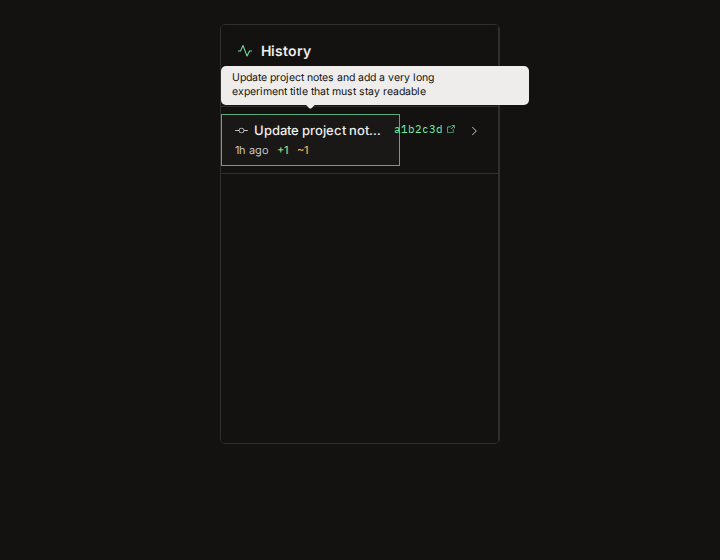
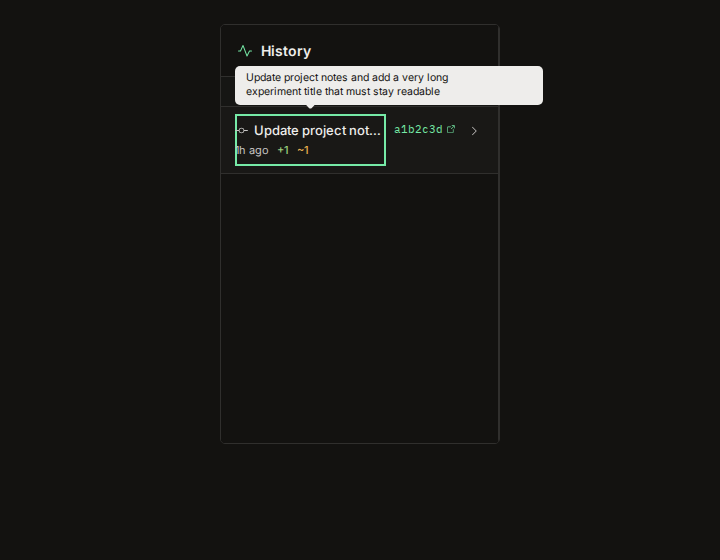
fix: align History commit titles with the review hold
The inspector name now starts with the visible hash and subject.
Empty subjects skip the tooltip. History rows expand from the title,
the chevron is not a second tab stop, and the focus ring uses the
state focus token. Earth light review shots sit beside the Graphite ones.

QA: hover, focus, and Escape on PulseView and GitHistoryPanel.
Tests: pnpm test — 7644 passed, 1 skipped. pnpm lint and pnpm typecheck passed.
Localization: none — English only (C18).
PostHog: no event needed because this is a tooltip on existing rows.
ADRs: none.

Changed region(s): [[0.3056, 0.1214, 0.6417, 0.3036], [0.7333, 0.1214, 0.7639, 0.2125]]

diff --git a/src/components/PulseView.test.tsx b/src/components/PulseView.test.tsx
@@ -1,8 +1,10 @@
 import { describe, it, expect, vi, beforeEach } from 'vitest'
-import { render, screen, fireEvent, waitFor } from '@testing-library/react'
+import { render as rtlRender, screen, fireEvent, waitFor } from '@testing-library/react'
 import { PulseView } from './PulseView'
 import { TooltipProvider } from './ui/tooltip'
 import type { PulseCommit } from '../types'
+
+const render = (ui: Parameters<typeof rtlRender>[0]) => rtlRender(ui, { wrapper: TooltipProvider })
 
 const openExternalUrl = vi.fn()
 const mockCommits: PulseCommit[] = [
@@ -159,12 +161,9 @@ describe('PulseView', () => {
 
     render(<PulseView vaultPath="/test/vault" />)
 
-    // Files are collapsed by default — expand all commit cards first
-    await waitFor(() => {
-      expect(screen.getAllByLabelText('Expand files').length).toBeGreaterThan(0)
-    })
-    screen.getAllByLabelText('Expand files').forEach((btn) => {
-      fireEvent.click(btn)
+    const commitRows = await screen.findAllByRole('button', { expanded: false })
+    commitRows.forEach((row) => {
+      fireEvent.click(row)
     })
 
     await waitFor(() => {
@@ -193,9 +192,7 @@ describe('PulseView', () => {
 
     render(<PulseView vaultPath="/test/vault" onOpenNote={onOpenNote} />)
 
-    await waitFor(() => {
-      expect(screen.getAllByLabelText('Expand files').length).toBeGreaterThan(0)
-    })
+    await screen.findByRole('button', { name: /Update project notes/i })
     rowLabels.forEach((rowLabel) => {
       fireEvent.click(screen.getByText(rowLabel))
     })
@@ -254,10 +251,7 @@ describe('PulseView', () => {
 
     render(<PulseView vaultPath="/test/vault" />)
 
-    // Files are collapsed by default
-    await waitFor(() => {
-      expect(screen.getAllByLabelText('Expand files').length).toBeGreaterThan(0)
-    })
+    await screen.findByRole('button', { name: /Update project notes/i, expanded: false })
     expect(screen.queryByText('my project')).not.toBeInTheDocument()
 
     fireEvent.click(screen.getByText('Update project notes'))
@@ -277,18 +271,26 @@ describe('PulseView', () => {
     render(<PulseView vaultPath="/test/vault" />)
 
     const commitRow = await screen.findByRole('button', { name: /Update project notes/i })
+    const surface = commitRow.parentElement?.parentElement
     const hasExpandedBackground = (className: string) => /(^|\s)bg-accent\/40(\s|$)/.test(className)
+    const hashLink = screen.getByRole('link', { name: /abc123d/ })
 
-    expect(commitRow.className).toContain('-mx-4')
-    expect(commitRow.className).toContain('px-4')
-    expect(commitRow.className).toContain('rounded-none')
-    expect(commitRow.className).toContain('hover:bg-accent/40')
-    expect(commitRow.className).toContain('focus-visible:bg-accent/40')
-    expect(hasExpandedBackground(commitRow.className)).toBe(false)
+    expect(surface).not.toBeNull()
+    expect(surface?.className).toContain('hover:bg-accent/40')
+    expect(surface?.className).toContain('focus-within:bg-accent/40')
+    expect(hasExpandedBackground(surface?.className ?? '')).toBe(false)
+    expect(commitRow.className).toContain('focus-visible:ring-2')
+    expect(commitRow.className).toContain('focus-visible:ring-[var(--state-focus-ring)]')
+    expect(commitRow).toHaveAttribute('aria-expanded', 'false')
+    expect(surface).toContainElement(hashLink)
+    expect(commitRow).not.toContainElement(hashLink)
+    const chevron = surface?.querySelector('button[aria-hidden="true"]')
+    expect(chevron).toHaveAttribute('tabindex', '-1')
 
     fireEvent.click(commitRow)
 
-    expect(hasExpandedBackground(commitRow.className)).toBe(true)
+    expect(commitRow).toHaveAttribute('aria-expanded', 'true')
+    expect(hasExpandedBackground(surface?.className ?? '')).toBe(true)
   })
 
   it('supports keyboard activation for commit rows and file rows', async () => {
@@ -323,22 +325,27 @@ describe('PulseView', () => {
       </TooltipProvider>,
     )
 
-    const row = await screen.findByRole('button', { name: longSubject })
+    const row = await screen.findByRole('button', { name: new RegExp(longSubject) })
     const title = row.querySelector('.truncate')
 
     expect(title).not.toBeNull()
     expect(title).toHaveClass('truncate')
     expect(title).toHaveTextContent(longSubject)
-    expect(row).toHaveAccessibleName(longSubject)
+    expect(row).not.toHaveAttribute('aria-label')
+    expect(row).toHaveAccessibleName(new RegExp(`${longSubject}[\\s\\S]*1h ago[\\s\\S]*\\+1[\\s\\S]*~1`))
 
     fireEvent.focus(row)
-    expect(await screen.findByRole('tooltip')).toHaveTextContent(longSubject)
-
-    fireEvent.blur(row)
+    const focusedTip = await screen.findByRole('tooltip')
+    const bubble = document.querySelector('[data-slot="tooltip-content"]')
+    expect(focusedTip).toHaveTextContent(longSubject)
+    expect(bubble).toHaveClass('break-words')
+    expect(bubble?.querySelector('[aria-hidden="true"]')).toHaveTextContent(longSubject)
+    fireEvent.keyDown(document, { key: 'Escape' })
     await waitFor(() => {
       expect(screen.queryByRole('tooltip')).not.toBeInTheDocument()
     })
 
+    fireEvent.blur(row)
     fireEvent.pointerMove(row)
     expect(await screen.findByRole('tooltip')).toHaveTextContent(longSubject)
   })

diff --git a/src/components/PulseView.tsx b/src/components/PulseView.tsx
@@ -86,8 +86,7 @@ const STATUS_COLOR = {
   deleted: 'var(--destructive)',
 } as const
 
-const PULSE_ROW_FOCUS_CLASS_NAME = 'focus-visible:outline-none focus-visible:ring-1 focus-visible:ring-ring/70 focus-visible:ring-inset'
-const PULSE_EDGE_TO_EDGE_ROW_CLASS_NAME = '-mx-4 rounded-none px-4'
+const PULSE_ROW_FOCUS_CLASS_NAME = 'focus-visible:outline-none focus-visible:ring-2 focus-visible:ring-[var(--state-focus-ring)] focus-visible:ring-inset'
 
 function SummaryBadges({ added, modified, deleted }: { added: number; modified: number; deleted: number }) {
   return (
@@ -159,21 +158,19 @@ function CommitCard({
   const subject = commitSubject(commit.message)
 
   return (
-    <div className="border-b border-border px-4 py-2">
-      <div className="flex items-start" style={{ gap: 8 }}>
+    <div className={cn('border-b border-border', expanded ? 'bg-accent/40' : 'hover:bg-accent/40 focus-within:bg-accent/40')}>
+      <div className="flex items-start px-4 py-2" style={{ gap: 8 }}>
         <CommitSubjectTooltip subject={subject}>
           <button
             type="button"
             className={cn(
               'flex min-w-0 flex-1 items-start justify-between border-none bg-transparent py-2 text-left transition-colors',
               PULSE_ROW_FOCUS_CLASS_NAME,
-              PULSE_EDGE_TO_EDGE_ROW_CLASS_NAME,
-              expanded ? 'bg-accent/40' : 'hover:bg-accent/40 focus-visible:bg-accent/40',
             )}
             style={{ gap: 8 }}
             onClick={toggleExpanded}
             onKeyDown={(event) => handleActivationKey(event, toggleExpanded)}
-            aria-label={subject}
+            aria-expanded={expanded}
           >
             <div className="min-w-0 flex-1">
               <div className="flex items-center" style={{ gap: 6, marginBottom: 2 }}>
@@ -207,10 +204,11 @@ function CommitCard({
         )}
         <button
           type="button"
+          tabIndex={-1}
+          aria-hidden="true"
           className="mt-2 flex shrink-0 cursor-pointer items-center justify-center rounded border-none bg-transparent p-0 text-muted-foreground hover:text-foreground"
           style={{ width: 20, height: 20 }}
           onClick={toggleExpanded}
-          aria-label={translate(locale, expanded ? 'pulse.collapseFiles' : 'pulse.expandFiles')}
         >
           <Chevron size={12} />
         </button>

diff --git a/src/components/InspectorPanels.test.tsx b/src/components/InspectorPanels.test.tsx
@@ -796,21 +796,48 @@ describe('GitHistoryPanel', () => {
 
     render(<GitHistoryPanel commits={commits} onViewCommitDiff={onViewCommitDiff} />)
 
-    const row = screen.getByRole('button', { name: `${longSubject}. View diff for abc1234` })
+    const row = screen.getByRole('button', { name: `abc1234 · ${longSubject}. View diff` })
     expect(row).toHaveClass('truncate')
-    expect(row).toHaveAccessibleName(`${longSubject}. View diff for abc1234`)
+    expect(row).toHaveAccessibleName(`abc1234 · ${longSubject}. View diff`)
     expect(row).not.toHaveAttribute('title', 'View diff for abc1234')
+    expect(row.className).toContain('focus-visible:ring-2')
+    expect(row.className).toContain('focus-visible:ring-[var(--state-focus-ring)]')
 
     fireEvent.focus(row)
-    expect(await screen.findByRole('tooltip')).toHaveTextContent(longSubject)
-
-    fireEvent.blur(row)
+    const focusedTip = await screen.findByRole('tooltip')
+    const bubble = document.querySelector('[data-slot="tooltip-content"]')
+    expect(focusedTip).toHaveTextContent(longSubject)
+    expect(bubble).toHaveAttribute('data-side', 'bottom')
+    expect(bubble).toHaveClass('break-words')
+    fireEvent.keyDown(document, { key: 'Escape' })
     await waitFor(() => {
       expect(screen.queryByRole('tooltip')).not.toBeInTheDocument()
     })
 
+    fireEvent.blur(row)
     fireEvent.pointerMove(row)
     expect(await screen.findByRole('tooltip')).toHaveTextContent(longSubject)
+  })
+
+  it('skips the tooltip when the commit subject is blank', () => {
+    const commits: GitCommit[] = [
+      {
+        hash: 'abc1234567890',
+        shortHash: 'abc1234',
+        message: '\n   \r',
+        author: 'luca',
+        date: Math.floor(Date.now() / 1000),
+      },
+    ]
+
+    render(<GitHistoryPanel commits={commits} onViewCommitDiff={onViewCommitDiff} />)
+
+    const row = screen.getByRole('button', { name: 'abc1234. View diff' })
+    expect(row).toHaveAccessibleName('abc1234. View diff')
+    expect(row).toHaveTextContent('abc1234')
+    expect(row.textContent?.trim().startsWith('. ')).toBe(false)
+    fireEvent.focus(row)
+    expect(screen.queryByRole('tooltip')).not.toBeInTheDocument()
   })
 
   it('displays relative dates correctly', () => {

diff --git a/src/components/inspector/GitHistoryPanel.tsx b/src/components/inspector/GitHistoryPanel.tsx
@@ -13,6 +13,13 @@ function formatRelativeDate(timestamp: number): string {
   return months === 1 ? '1mo ago' : `${months}mo ago`
 }
 
+const INSPECTOR_ROW_FOCUS_CLASS_NAME = 'focus-visible:outline-none focus-visible:ring-2 focus-visible:ring-[var(--state-focus-ring)] focus-visible:ring-inset'
+
+function commitRowName(shortHash: string, subject: string): string {
+  const visible = subject ? `${shortHash} · ${subject}` : shortHash
+  return `${visible}. View diff`
+}
+
 export function GitHistoryPanel({ commits, onViewCommitDiff }: { commits: GitCommit[]; onViewCommitDiff?: (commitHash: string) => void }) {
   if (commits.length === 0) return null
 
@@ -27,15 +34,14 @@ export function GitHistoryPanel({ commits, onViewCommitDiff }: { commits: GitCom
           const subject = commitSubject(c.message)
           return (
             <div key={c.hash} style={{ borderLeft: '2px solid var(--border)', paddingLeft: 10 }}>
-              <CommitSubjectTooltip subject={subject}>
+              <CommitSubjectTooltip subject={subject} side="bottom">
                 <button type="button"
-                  className="mb-0.5 w-full cursor-pointer truncate border-none bg-transparent p-0 text-left text-xs text-primary hover:underline"
+                  className={`mb-0.5 w-full cursor-pointer truncate border-none bg-transparent p-0 text-left text-xs text-primary hover:underline ${INSPECTOR_ROW_FOCUS_CLASS_NAME}`}
                   onClick={() => onViewCommitDiff?.(c.hash)}
-                  aria-label={`${subject}. View diff for ${c.shortHash}`}
+                  aria-label={commitRowName(c.shortHash, subject)}
                 >
                   <span className="font-mono" style={{ fontSize: 11 }}>{c.shortHash}</span>
-                  {' · '}
-                  {subject}
+                  {subject ? ` · ${subject}` : null}
                 </button>
               </CommitSubjectTooltip>
               <div className="text-muted-foreground" style={{ fontSize: 10 }}>

diff --git a/src/utils/commitSubject.test.ts b/src/utils/commitSubject.test.ts
@@ -1,6 +1,8 @@
 import { describe, expect, it } from 'vitest'
 import { commitSubject } from './commitSubject'
 
+const LONG_SUBJECT = 'Update project notes and add a very long experiment title that must stay readable'
+
 describe('commitSubject', () => {
   it('returns the first line of a multiline commit message', () => {
     expect(commitSubject('Update project notes\n\nAdd the experiment write-up.')).toBe(
@@ -12,7 +14,32 @@ describe('commitSubject', () => {
     expect(commitSubject('  Reorganize people notes  ')).toBe('Reorganize people notes')
   })
 
+  it('uses the first non-blank line when leading lines are empty', () => {
+    expect(commitSubject('\n\nUpdate project notes')).toBe('Update project notes')
+  })
+
+  it('skips a whitespace-only first line', () => {
+    expect(commitSubject('   \nReorganize people notes')).toBe('Reorganize people notes')
+  })
+
+  it('treats a lone carriage return as a line break', () => {
+    expect(commitSubject('Update project notes\rAdd the experiment write-up.')).toBe(
+      'Update project notes',
+    )
+    expect(commitSubject('\r')).toBe('')
+  })
+
+  it('keeps emoji in the subject', () => {
+    expect(commitSubject('🌱 Plant the notes\n\nBody')).toBe('🌱 Plant the notes')
+  })
+
+  it('keeps a long subject intact', () => {
+    expect(commitSubject(`${LONG_SUBJECT}\n\nBody`)).toBe(LONG_SUBJECT)
+  })
+
   it('returns an empty string for a blank message', () => {
     expect(commitSubject('')).toBe('')
+    expect(commitSubject('\n\n')).toBe('')
+    expect(commitSubject('   \r  ')).toBe('')
   })
 })

diff --git a/src/components/CommitSubjectTooltip.tsx b/src/components/CommitSubjectTooltip.tsx
@@ -1,21 +1,23 @@
 import type { ReactElement } from 'react'
-import { Tooltip, TooltipContent, TooltipProvider, TooltipTrigger } from '@/components/ui/tooltip'
+import { Tooltip, TooltipContent, TooltipTrigger } from '@/components/ui/tooltip'
 
 export function CommitSubjectTooltip({
   subject,
+  side = 'top',
   children,
 }: {
   subject: string
+  side?: 'top' | 'bottom' | 'left' | 'right'
   children: ReactElement
 }) {
+  if (!subject) return children
+
   return (
-    <TooltipProvider delayDuration={0}>
-      <Tooltip>
-        <TooltipTrigger asChild>{children}</TooltipTrigger>
-        <TooltipContent side="top" align="start">
-          {subject}
-        </TooltipContent>
-      </Tooltip>
-    </TooltipProvider>
+    <Tooltip>
+      <TooltipTrigger asChild>{children}</TooltipTrigger>
+      <TooltipContent side={side} align="start" className="break-words">
+        <span aria-hidden="true">{subject}</span>
+      </TooltipContent>
+    </Tooltip>
   )
 }

diff --git a/src/utils/commitSubject.ts b/src/utils/commitSubject.ts
@@ -1,4 +1,4 @@
-/** First line of a commit message — the subject shown in History rows. */
+/** First non-blank line of a commit message — the subject shown in History rows. */
 export function commitSubject(message: string): string {
-  return message.split(/\r?\n/, 1)[0]?.trim() ?? ''
+  return message.split(/\r\n|\r|\n/).map((line) => line.trim()).find(Boolean) ?? ''
 }

diff --git a/docs/plans/handoffs/2026-10-17-1748-cursor-grok-4-6-history-commit-title.md b/docs/plans/handoffs/2026-10-17-1748-cursor-grok-4-6-history-commit-title.md
@@ -15,12 +15,19 @@ with no hover or focus path to the rest of the line. The inspector
 message. Both surfaces now wrap the row in `CommitSubjectTooltip` and
 label the first line of the message.
 
+Review follow-up: the inspector accessible name starts with the visible
+`hash · subject`, empty subjects render no tooltip, the History chevron
+is not a second tab stop, and the focus ring uses `--state-focus-ring`.
+
 Review shots in `docs/review-shots/history-commit-title/`:
 
 - `before-history-hover.png`
 - `after-history-hover.png`
 - `after-history-focus.png`
 - `after-inspector-hover.png`
+- `earth-after-history-hover.png`
+- `earth-after-history-focus.png`
+- `earth-after-inspector-hover.png`
 
 Regenerate after shots with `pnpm dev` and
 `SHOT_PHASE=after node scripts/capture-history-commit-title.mjs`.
